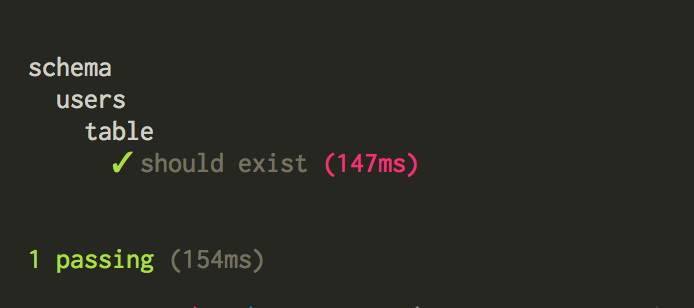
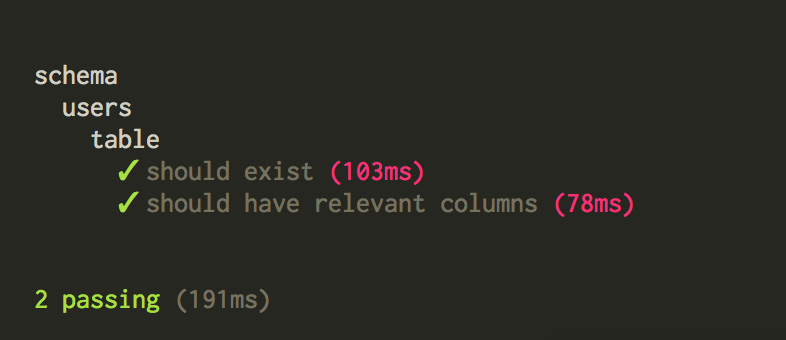
Micro enhancements

diff --git a/_posts/2015-09-22-going-full-stack-functional-with-node.md b/_posts/2015-09-22-going-full-stack-functional-with-node.md
@@ -118,16 +118,12 @@ require! {
   '../../../db/support/knex': knex
 }
 
-require! {
-  assert
-  '../../../db/support/knex': knex
-}
-
 describe \schema, ->
   describe \users, ->
     describe \table, ->
       specify 'should exist', ->*
         assert.ok yield knex.schema.has-table \users
+      specify 'should have relevant columns', ->*
         for column in <[id email username created_at updated_at]>
           assert.ok yield knex.schema.has-column \users, column
 {% endhighlight %}
@@ -172,7 +168,7 @@ module.exports =
     knex.schema.drop-table \users
 {% endhighlight %}
 
-Now if our migrations run without error then our users table is set up properly and we can re-run the tests:
+Now if our migrations run without error, then our users table is set up properly and we can re-run the tests:
 
 ```
 NODE_ENV=test knex migrate:latest
